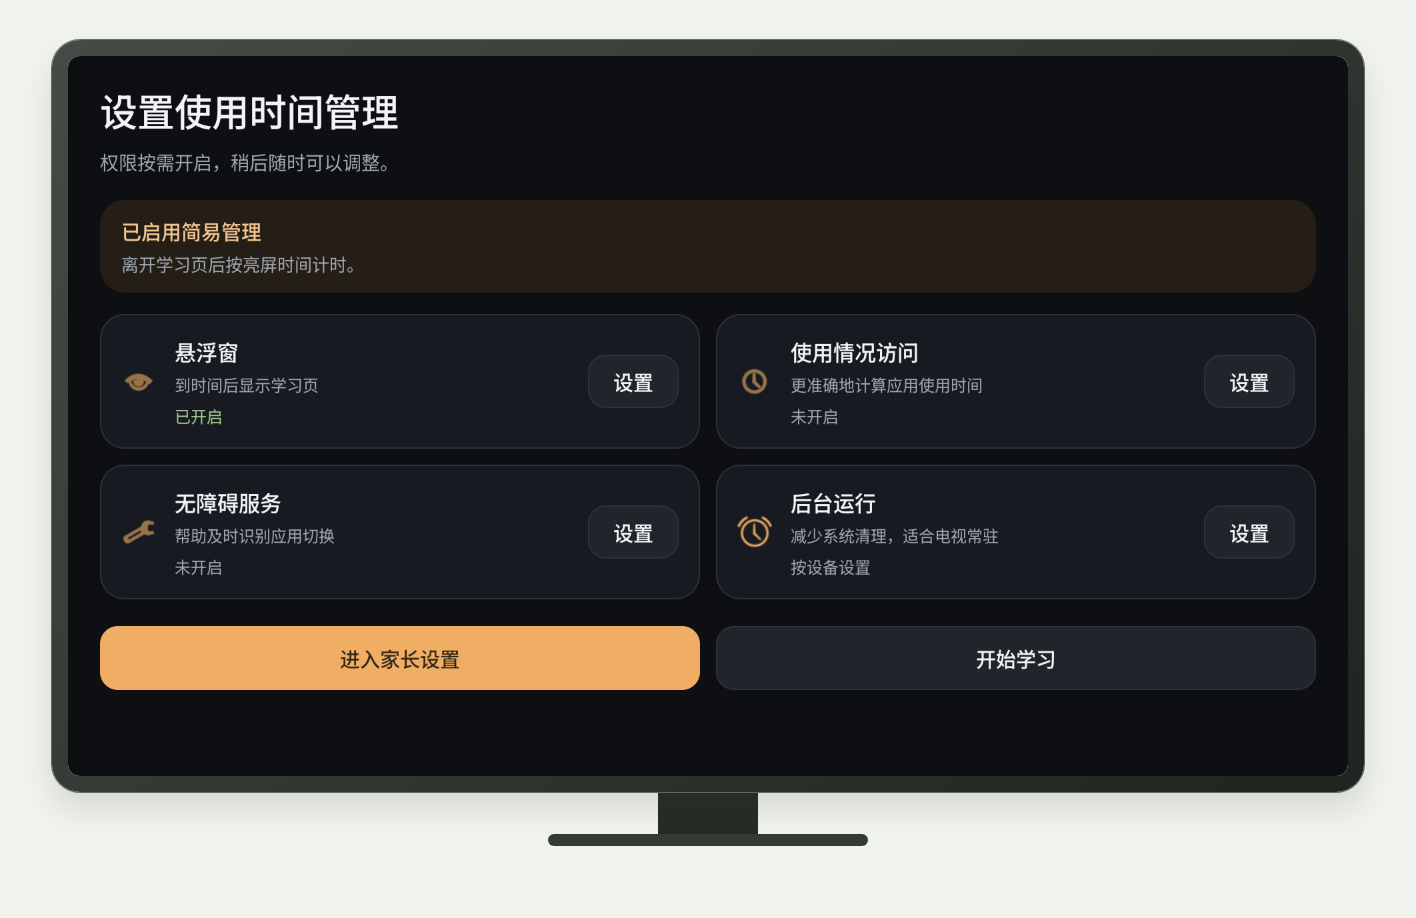
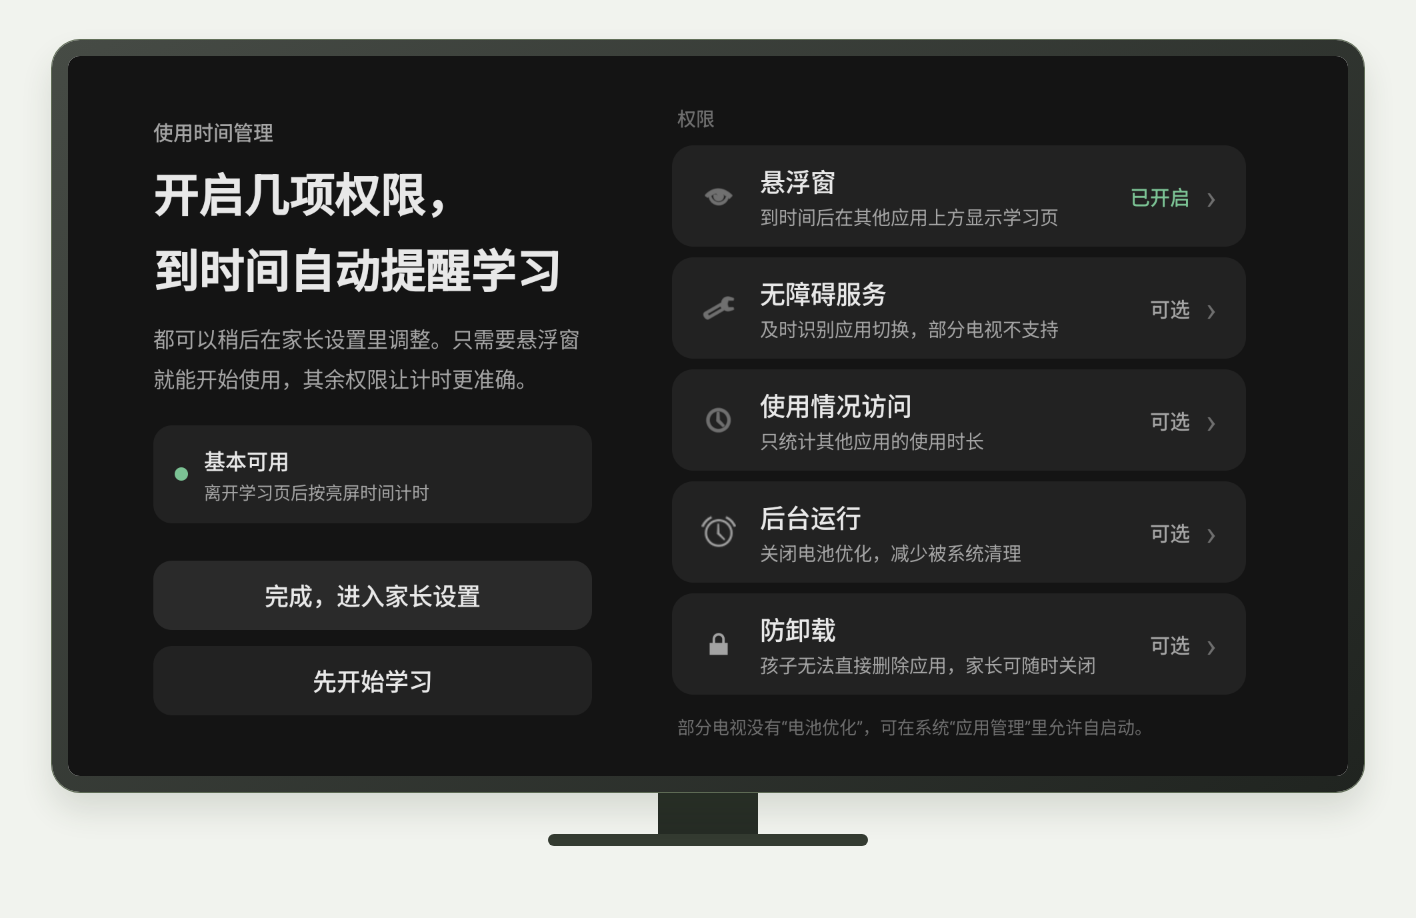
Update README

diff --git a/README.md b/README.md
@@ -4,7 +4,7 @@
 
 ### 先学再看 · 让每一点进步被看见
 
-**Learn first. Watch later.** · Android 平板优先，兼容手机和电视，不需要自建服务器
+**Learn first. Watch later.** · 支持Android 平板、手机和电视，不需要自建服务器
 
 本项目已链接并认可 [LINUX DO](https://linux.do) 社区。
 
@@ -21,8 +21,10 @@
 
 Android 平板、手机和电视使用同一套规则，分别安装对应版本：
 
-- **[手机 / 平板版](https://github.com/chadyi/StudyOnTV/releases/download/v0.2.1/StudyOnTV-Mobile-v0.2.1.apk)**
-- **[TV 版](https://github.com/chadyi/StudyOnTV/releases/download/v0.2.1/StudyOnTV-Android-TV-v0.2.1.apk)**
+- [**手机/平板/TV GitHub 下载**](https://github.com/chadyi/StudyOnTV/releases)
+
+- **[手机 / 平板版 · 蒲公英下载](https://www.pgyer.com/StudyOnTVMobile)**
+- **[TV 版 · 蒲公英下载](https://www.pgyer.com/StudyOnTVTV)**
 
 手机和平板直接下载安装；电视可通过 U 盘或 ADB 安装。首次打开设置管理密码，权限可以按需开启，也可以稍后再设置。
 
@@ -35,12 +37,19 @@ Android 平板、手机和电视使用同一套规则，分别安装对应版本
 孩子先完成学习任务，再解锁设备使用时间，到时显示新的学习任务。平板和手机支持触屏、公式、语音输入与手写，电视支持遥控器。题库、规则、使用记录和加练池都保存在被控设备。
 
 - **开放题型**：单选、多选、判断、填空、主观题；题干和选项支持 LaTeX 公式，离线显示。
-- **多种玩法**：按组闯关、连续答对、自由练习，可设置正确率、任务数量和可用时段。
+- **多种玩法**：按组闯关、连续答对、自由练习，可设置正确率和任务数量。时段可选「仅时段内可用」或「仅时段内需要答题」；后者在时段外自由使用、不扣余额，适合白天老人看电视、17–21 点再管控。
 - **星级奖励**：1–5 星题目分别设置时长奖励，仍受每日上限约束。
 - **累计加练**：答错达到阈值就增加加练题，跨天、重启保留，答对加练题逐道扣除。
 - **主观题批改**：家长手动批改、WorkBuddy / Codex 等 Agent 批改，或配置 DeepSeek 等兼容 AI API。
 - **间隔重复**：在规则里打开后，优先复习到期题，答对后延长间隔，答错后提前复习，进度跨重启保留。
-- **密码管理**：首次设置管理密码，扫码面板和 API 都要验证。标题连点 5 次或遥控器「上」短按 5 次，可重新打开家长验证入口。
+- **答题反馈**：答完在下方显示对错、正确答案与解析，孩子按“继续”进入下一题；鼓励语可在面板自定义。
+- **电视遥控器与音频**：方向键即可完成作答、填空和更新。学习页出现时先暂停播放器、请求音频焦点；仍继续播放时静音兜底，退出管控后恢复原静音状态，原先未静音时恢复媒体音量。
+- **深色 / 浅色**：电视默认深色，手机和平板跟随系统，家长可在面板切换。
+- **AI 批改更省心**：内置 DeepSeek、通义千问、智谱、Kimi、硅基流动、本地 Ollama 等预设，一键测试连接、获取模型列表。
+- **蒲公英优先更新**：TV 与手机 / 平板独立分发，蒲公英不可用时再尝试 GitHub、jsDelivr 和加速镜像；下载校验包名、版本与签名，有 SHA-256 时同时校验。
+- **管控保护**：规则可开启「管控期间拦截系统设置」，家长验证后可临时进入，自由时段不拦截。支持设备管理员的系统可另行授权防卸载；这些权限均可选。
+- **开机恢复**：接收 Android 开机、部分系统快速开机和覆盖升级广播，尝试恢复管理服务；厂商自启动及遥控器待机清后台场景见安装指南。
+- **密码管理**：首次设置管理密码，扫码面板和 API 都要验证。学习页标题连点 5 次，或焦点在最上方时遥控器「上」短按 5 次，可重新打开家长验证入口；面板里也可以修改密码。
 
 [玩法说明](./docs/gameplay.md) · [题库与批改 API](./docs/ai-api.md) · [示例题库](./data/banks/open-play.json)
 
@@ -51,18 +60,17 @@ Android 平板、手机和电视使用同一套规则，分别安装对应版本
 ## 截图
 
 <div align="center">
-
 <img src="./docs/screenshots/tablet-quiz.png" width="780" alt="平板公式与主观题作答"><br><sub>平板学习 · 公式、文字与手写作答</sub><br><br>
 <img src="./docs/screenshots/tablet-handwriting.png" width="780" alt="平板手写作答"><br><sub>手写过程可提交家长、Agent 或图像模型批改</sub><br><br>
 <img src="./docs/screenshots/phone-quiz.png" width="280" alt="手机公式与主观题作答"><br><sub>手机学习 · 与平板共用题库和规则</sub><br><br>
 <img src="./docs/screenshots/parent-review.png" width="280" alt="家长批改与 AI 设置"><br><sub>家长批改与 AI 设置</sub><br><br>
 <img src="./docs/screenshots/tv-quiz.png" width="780" alt="电视端答题">
-<br><sub>遥控器选题，答错直接显示正确答案</sub>
+<br><sub>遥控器选题，答完在下方显示对错、正确答案与解析</sub>
 
 <br><br>
 
 <img src="./docs/screenshots/tv-pair.png" width="780" alt="家长扫码连接">
-<br><sub>家长扫码，手机和电视同一个 WiFi 即可</sub>
+<br><sub>家长用手机扫码，同一个 WiFi 即可管理</sub>
 
 <br><br>
 
@@ -92,7 +100,8 @@ Android 平板、手机和电视使用同一套规则，分别安装对应版本
 | 每组题量 | 一组几道题 |
 | 答对比例 | 答对多少题才算通过（百分比） |
 | 每天最多答几组 | 答完上限即锁定 |
-| 可用时段 | 独立「全天可用」开关；指定时段支持跨午夜 |
+| 时段用途 | 仅时段内可用 / 仅时段内需要答题；独立全天开关，支持跨午夜 |
+| 系统设置保护 | 管控期间拦截，家长验证后临时放行；需无障碍或悬浮窗配合使用情况访问 |
 | 间隔重复 | 开启后优先抽取到期复习题，再补新题 |
 | 玩法 | 按组闯关、连续答对、自由练习 |
 | 星级奖励 | 分别设置 1–5 星每题奖励 |
@@ -131,6 +140,9 @@ Android 平板、手机和电视使用同一套规则，分别安装对应版本
 **Q：孩子把 App 强退了怎么办？**
 A：可以按设备条件开启悬浮窗或无障碍，并允许后台运行。系统强制停止应用、撤销权限或卸载会影响管控；重新打开后可以在家长设置中调整权限。
 
+**Q：支持开机自启动吗？**
+A：已接入 Android 开机与部分快速开机广播。请先打开 App 完成首次设置，并按厂商要求允许自启动、后台运行。小米等电视的遥控器待机、厂商清后台未必发送开机广播，需要在实际设备上验证，详见 [安装指南](./docs/install.md)。
+
 **Q：支持哪些设备？**
 A：Android 5.0+ 的平板、手机和电视。厂商后台限制需要在实际设备上确认，鸿蒙 NEXT / Tizen / webOS 待支持。
 
@@ -156,12 +168,14 @@ A：题库可以在手机管理页导出 JSON，换电视后重新导入。
 
 ## 社区建议与致谢
 
-感谢 [LINUX DO](https://linux.do) 社区的建议：
+-  [LINUX DO](https://linux.do) **xiuweng**：支持手机管控、通过隐藏手势重新打开管理入口，以及答错后累计加练、重启保留加练池。
+- ** [LINUX DO](https://linux.do) free-swimming**：设置题目星级难度，并为不同难度配置不同的时长奖励。
+- **[Issue #2](https://github.com/chadyi/StudyOnTV/issues/2)**：补充修改密码、AI 服务预设与连接测试，改进题库管理，图表与公式按需加载。
+- **[Issue #3](https://github.com/chadyi/StudyOnTV/issues/3)**：答题结果放在题目下方，显示正确答案、解析与鼓励语，由孩子手动继续；加强后台音频处理。
+- **[Issue #4](https://github.com/chadyi/StudyOnTV/issues/4)**：区分可用时段与答题管控时段，增加自由时段、可选防卸载和音频静音兜底。
+- **[Issue #5](https://github.com/chadyi/StudyOnTV/issues/5)**：补充开机启动说明。
 
-- **xiuweng**：支持手机管控、通过隐藏手势重新打开管理入口，以及答错后累计加练、重启保留加练池。
-- **free-swimming**：设置题目星级难度，并为不同难度配置不同的时长奖励。
-
-这些建议也延伸到平板端，欢迎继续反馈实际使用体验。
+这些建议也延伸到其他端端，欢迎反馈使用体验。
 
 ---
 

diff --git a/README.en.md b/README.en.md
@@ -4,7 +4,7 @@ An Android learning and screen-time app for tablets, phones and TVs. Tablets and
 
 This project is linked with and endorses the [LINUX DO](https://linux.do) community.
 
-[Download APK](https://github.com/chadyi/StudyOnTV/releases/latest) · [中文说明](./README.md) · [Installation](./docs/install.md)
+[Mobile / tablet APK](https://www.pgyer.com/StudyOnTVMobile) · [TV APK](https://www.pgyer.com/StudyOnTVTV) · [GitHub downloads](https://github.com/chadyi/StudyOnTV/releases) · [中文说明](./README.md) · [Installation](./docs/install.md)
 
 ## Learning
 
@@ -13,16 +13,20 @@ This project is linked with and endorses the [LINUX DO](https://linux.do) commun
 - Keyboard input, system speech-to-text and handwriting images.
 - Round-based tasks, correct-answer streaks and unrestricted practice.
 - Configurable rewards for questions rated 1–5 stars.
+- Answer feedback below each question: right or wrong, the correct answer and the explanation; the child continues when ready. Parents can edit the encouragement phrases.
+- Remote-friendly TV interface with Netflix-style focus, dark and light modes, and system keyboard or voice input for typed answers. Videos behind the learning overlay are paused.
 - Optional spaced repetition prioritizes due questions and keeps learning progress across restarts.
 - Persistent extra-practice pool: mistakes add questions at a configurable threshold; correct extra-practice answers repay the pool. Restarting or changing the date does not erase the pool.
 
 ## Parent management
 
-The controlled device hosts its own local HTTP panel. Parents connect over the same network and enter the management password set during initial setup. Tap the application title five times, or press D-pad Up five times, to reopen the password-protected connection screen.
+The controlled device hosts its own local HTTP panel. Parents connect over the same network and enter the management password set during initial setup. Tap the application title five times, or press D-pad Up five times while focus is at the top, to reopen the password-protected connection screen.
 
 The panel separates rules, question banks, grading and usage records. APIs require authentication as well; the former six-digit access code and unauthenticated question-bank access have been removed.
 
-Subjective submissions can be graded by a parent, an authenticated Agent, or an optional OpenAI-compatible AI endpoint such as DeepSeek. Handwriting requires a vision-capable model or human review. Failed AI calls preserve the submission for later review. Enabling AI sends question and answer content to the configured provider.
+Updates use Pgyer first, with GitHub, jsDelivr and download mirrors as fallbacks. APKs are checked for package name, version and signing identity; SHA-256 is also checked when supplied. Device update checks use public download pages and do not contain account API credentials.
+
+Subjective submissions can be graded by a parent, an authenticated Agent, or an optional OpenAI-compatible AI endpoint such as DeepSeek, Qwen, Zhipu, Kimi, SiliconFlow or a local Ollama server, with built-in presets, a connection test and model list fetching. Handwriting requires a vision-capable model or human review. Failed AI calls preserve the submission for later review. Enabling AI sends question and answer content to the configured provider.
 
 [Question-bank and grading API](./docs/ai-api.md) · [Gameplay rules](./docs/gameplay.md) · [Example question bank](./data/banks/open-play.json)
 
@@ -38,11 +42,17 @@ Subjective submissions can be graded by a parent, an authenticated Agent, or an 
 
 Native Android code validates answers and awards time. Actual foreground app use consumes the persisted balance; study, launcher, locked-screen and screen-off time do not. Limits include daily usage, daily rewarded rounds and allowed hours, including overnight windows.
 
-Accessibility and background-running permissions are required. Android force-stop, uninstall, revoked permissions and manufacturer background restrictions can stop enforcement. System settings and emergency calling remain available.
+Schedules can either allow device use only within the selected hours, or require learning only within those hours. The latter leaves the rest of the day free, without consuming the earned balance. Both support overnight windows and an explicit all-day option.
+
+All permissions are optional. Accessibility, or overlay permission combined with usage access, can identify apps and enforce limits. Overlay-only mode approximates awake time away from the learning screen. During controlled periods, parents can enable Settings interception; local parent verification temporarily permits access, and free periods remain unrestricted. Optional device-admin activation discourages normal uninstallation on supported devices. Force-stop, revoked permissions and manufacturer background policies can interrupt enforcement.
+
+Android boot, supported quick-boot broadcasts and package replacement can restart the management service after initial setup. A TV remote's standby action or manufacturer task cleanup may not send a boot broadcast; allow autostart/background running and verify the behavior on the actual device.
 
 ## Community suggestions
 
 Thanks to **xiuweng** on LINUX DO for mobile control, the hidden management entry and persistent extra practice; and to **free-swimming** for star difficulty and different time rewards.
+
+Suggestions from [#2](https://github.com/chadyi/StudyOnTV/issues/2) improved password changes, AI presets, question-bank management and lazy loading. [#3](https://github.com/chadyi/StudyOnTV/issues/3) led to inline answer feedback and manual continuation; [#4](https://github.com/chadyi/StudyOnTV/issues/4) informed control-hour schedules, optional uninstall protection and stronger background-audio handling. [#5](https://github.com/chadyi/StudyOnTV/issues/5) prompted clearer boot-startup guidance.
 
 ## License
 

diff --git a/docs/install.md b/docs/install.md
@@ -2,7 +2,7 @@
 
 ## 安装到手机或平板
 
-下载 [手机 / 平板 APK](https://github.com/chadyi/StudyOnTV/releases/latest)，在 Android 手机或平板上打开安装，允许当前下载工具安装应用。TV 使用单独的 TV APK。手机默认竖屏，平板支持横竖屏；电视继续支持遥控器。
+从蒲公英下载 [手机 / 平板 APK](https://www.pgyer.com/StudyOnTVMobile) 或 [TV APK](https://www.pgyer.com/StudyOnTVTV)，按设备选择对应版本。[GitHub 下载](https://github.com/chadyi/StudyOnTV/releases)作为备用。手机和平板直接打开 APK 安装，允许当前下载工具安装应用。手机默认竖屏，平板支持横竖屏；电视支持遥控器。
 
 首次打开先设置管理密码，随后可按需开启权限；不开权限也能进入家长设置或学习。电视无法开启无障碍时，可以使用悬浮窗管理。在另一台家长设备上扫码，输入管理密码连接。受控设备本身也可以通过连续点击标题 5 次，或短按遥控器「上」5 次，再输入密码重新打开连接页。
 
@@ -58,7 +58,7 @@
 帮我在这台电视上安装 StudyOnTV。ADB 调试已经开好了。
 电视 IP：<填>
 
-1. 从 https://github.com/chadyi/StudyOnTV/releases/latest 下载最新 APK
+1. 从 https://www.pgyer.com/StudyOnTVTV 下载 TV APK；备用地址为 https://github.com/chadyi/StudyOnTV/releases
 2. adb connect <IP>:5555，然后 adb devices 确认设备出现；
    没出现就等我到电视上点「允许」，还是不行再告诉我怎么处理
 3. adb install -r <刚下载的 apk>
@@ -108,13 +108,20 @@ adb shell monkey -p com.studyontv.tv -c android.intent.category.LAUNCHER 1
 | 权限 | 位置 | 作用 |
 |---|---|---|
 | 显示在其他应用上层 | 设置 → 应用 → 特殊权限 | 到时间后显示学习页，无需强制开启无障碍 |
-| 使用情况访问 | 设置 → 应用 → 特殊权限 → 使用情况访问 | 更准确地识别应用使用时间，桌面和系统设置不计时 |
+| 使用情况访问 | 设置 → 应用 → 特殊权限 → 使用情况访问 | 识别应用、准确计时，并配合悬浮窗拦截系统设置；桌面与系统设置不扣时 |
 | 无障碍服务 | 设置 → 无障碍 → 已下载的服务 → 题了个题 | 帮助及时识别应用切换，并显示学习页，可选 |
 | 自启动 / 后台白名单 | 设置 → 应用 → 自启动管理 | 减少系统清理，适合电视后台运行 |
+| 防卸载（可选） | App 权限页 → 防卸载 → 系统设备管理员授权 | 支持的系统可要求先解除管理员再卸载；家长可从设置中解除 |
 
 只开启悬浮窗、未提供应用识别权限时，按离开学习页后的亮屏时间计时，包含桌面停留时间。未开启任何权限时，可以学习和管理题库，暂不拦截其他应用。
 
 在家长设备上扫码并输入首次安装时设置的管理密码。权限入口始终保留在家长设置中。
+
+规则中的「管控期间拦截系统设置」默认开启，自由时段不拦截；家长在设备上验证密码后可临时进入。可靠识别与拦截需要无障碍，或悬浮窗配合使用情况访问。只有悬浮窗时无法准确区分系统设置。
+
+**开机启动：** 首次打开并完成设置后，App 接收 Android 开机、部分电视快速开机与覆盖安装广播，尝试恢复前台管理服务。请在厂商设置中允许自启动和后台运行。小米等电视的遥控器待机、关机清后台未必触发 Android 开机广播；系统强制停止或厂商禁用后台启动时，仍需重新打开 App，不能保证自动恢复。
+
+**应用更新：** 家长面板可检查更新，默认优先蒲公英，失败再尝试 GitHub、CDN 与镜像。TV 和手机 / 平板分别更新，下载后核对包名、版本和签名；覆盖安装保留本机数据。需要调整「安装未知应用」权限时，可先由家长验证后进入系统设置。
 
 <img src="./screenshots/setup-mobile.png" width="260" alt="手机权限页：未授权也可进入设置和学习">
 

diff --git a/docs/gameplay.md b/docs/gameplay.md
@@ -34,7 +34,12 @@
 
 解锁时只增加可用余额。切换到其他受控应用且屏幕亮着时，才扣减余额并记录实际使用；答题、家长验证、桌面、锁屏和熄屏不扣。余额与实际使用记录保存在本地 SQLite，重启后不会重新赠送时间。
 
-可用时段支持跨午夜；「全天可用」是独立开关，空时间不再被解释成全天。未到时段时停留提示页，显示下次可用的具体日期与时间，不提供返回桌面按钮；只有已解锁且在可用时段内才能返回桌面。每日任务数量和使用额度在设备本地零点重置，加练池保留。
+时段支持跨午夜，「全天」是独立开关。时段用途可选：
+
+- **仅时段内可用**：时段外不可使用，提示下次可用时间；时段内仍须答题解锁，并遵守每日额度。
+- **仅时段内需要答题**：时段内答题、计时与限额生效；时段外为自由使用，不扣余额，也不因待查看的批改结果拦截。适合白天家人正常看电视，17:00–21:00 再要求孩子答题。
+
+每日任务数量和使用额度在设备本地零点重置，加练池保留。
 
 ## 间隔重复复习
 
@@ -46,7 +51,7 @@
 
 ## 平板公式与输入
 
-题干、选项和参考答案可写 LaTeX 公式。公式库与字体随 APK 提供，遇到公式才加载。手机 / 平板包支持语音转文字与手写图片；语音识别由系统服务提供，能否离线取决于设备已安装的服务。TV 包省去语音和手写模块。
+题干、选项和参考答案可写 LaTeX 公式。公式库与字体随 APK 提供，遇到公式才加载。手机 / 平板包支持语音转文字与手写图片；语音识别由系统服务提供，能否离线取决于设备已安装的服务。TV 使用系统输入法，语音能力取决于电视输入法，不含独立手写模块。
 
 主观题与手写答案保存在待批队列。等待批改时不发放奖励，作答和加练池不丢失；家长或 Agent 可以评分，也可配置 AI API 自动批改。文字模型不能处理手写图片时保留给家长或图像模型。
 
@@ -56,7 +61,13 @@
 
 连接页二维码仅包含面板地址。家长打开面板仍须输入管理密码，API 也必须验证；旧版 6 位访问码不再使用。修改密码会立即使所有管理令牌失效。
 
-无障碍与悬浮窗按需开启，未开启也可进入学习和家长设置。悬浮窗配合使用情况访问，可以识别应用使用并在到时间后显示学习页；只开启悬浮窗时，按离开学习页后的亮屏时间计时。无障碍可帮助及时识别应用切换，不是必选项。系统强行停止应用、撤销权限或卸载会影响管控；不同厂商对后台运行的限制需要在实际设备上确认。通话、系统权限和设置界面在能识别前台应用时保留可用。
+无障碍与悬浮窗按需开启，未开启也可进入学习和家长设置。悬浮窗配合使用情况访问，可以识别应用使用并在到时间后显示学习页；只开启悬浮窗时，按离开学习页后的亮屏时间计时。无障碍可帮助及时识别应用切换，不是必选项。
+
+「管控期间拦截系统设置」默认开启，在有识别与拦截权限时生效，即使还有可用余额也会保护系统设置；设备上的家长验证可临时放行。「仅时段内需要答题」模式的自由时段不拦截设置。支持设备管理员的系统还可另行授权防卸载，家长可解除授权；这不属于设备所有者级锁定。
+
+学习页出现时先发送媒体暂停并请求音频焦点；播放器继续输出时静音兜底。离开学习拦截或进入自由时段后恢复原静音状态，原先未静音时恢复媒体音量。不同电视、直播和视频应用的表现需以实机为准。
+
+系统强行停止应用、撤销权限或卸载会影响管控；厂商后台限制、开机广播与遥控器待机差异见[安装指南](./install.md)。
 
 ## 建议来源
 
